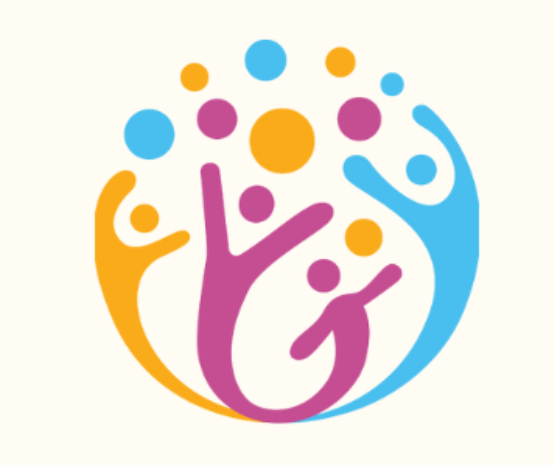
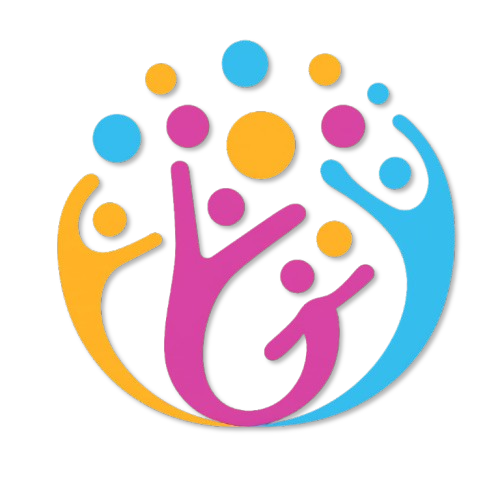
Initial commit: Added React registration form

Changed region(s): [[0.09, 0.0602, 0.93, 0.9333]]

diff --git a/src/App.js b/src/App.js
@@ -1,6 +1,6 @@
 import React, { useState } from 'react';
+import axios from 'axios';
 import { FaUsers, FaHandshake, FaRocket } from 'react-icons/fa';
-import './App.css';
 
 const capitalize = (str) => {
   if (!str) return '';
@@ -9,23 +9,25 @@ const capitalize = (str) => {
 
 const App = () => {
   const [formData, setFormData] = useState({
+    rollNo: '',
     firstName: '',
     middleName: '',
     lastName: '',
     email: '',
+    prn: '',
+    dob: '',
+    mobileNo: '',
     department: '',
     division: '',
-    rollNo: '',
-    prnNo: '',
-    dob: '',
     gender: '',
     address: '',
-    mobileNo: '',
   });
 
+  const [photo, setPhoto] = useState(null);
+  const [screenshot, setScreenshot] = useState(null);
+
   const handleChange = (event) => {
-    const { name, value, type, checked } = event.target;
-    
+    const { name, value } = event.target;
     if (['firstName', 'middleName', 'lastName'].includes(name)) {
       setFormData((prev) => ({
         ...prev,
@@ -34,27 +36,38 @@ const App = () => {
     } else {
       setFormData((prev) => ({
         ...prev,
-        [name]: type === 'checkbox' ? checked : value,
+        [name]: value,
       }));
     }
   };
 
-  const handleSubmit = (event) => {
+  const handleFileChange = (event) => {
+    const { name, files } = event.target;
+    if (name === 'photo') setPhoto(files[0]);
+    if (name === 'screenshot') setScreenshot(files[0]);
+  };
+
+  const handleSubmit = async (event) => {
     event.preventDefault();
-    console.log(formData);
-  };
 
-  const handlePhotoUpload = (event) => {
-    console.log('Photo file:', event.target.files[0]);
-  };
+    const data = new FormData();
+    Object.entries(formData).forEach(([key, value]) => {
+      data.append(key, value);
+    });
+    data.append('photo', photo);
+    data.append('screenshot', screenshot);
 
-  const handleScreenshotUpload = (event) => {
-    console.log('Screenshot file:', event.target.files[0]);
+    try {
+      await axios.post('http://localhost:8080/student', data);
+      alert('Student registered successfully');
+    } catch (error) {
+      console.error('Error submitting form:', error);
+      alert('Submission failed. Check backend logs for more info.');
+    }
   };
 
   return (
     <div className="flex flex-col lg:flex-row min-h-screen bg-gradient-to-br from-[#0f2027] via-[#203a43] to-[#2c5364] text-white p-4">
-
       {/* Form Section */}
       <div className="lg:w-4/5 bg-white text-gray-800 flex items-center justify-center p-8 shadow-2xl order-2 lg:order-1 rounded-lg">
         <div className="w-full max-w-3xl">
@@ -63,7 +76,7 @@ const App = () => {
             <span className="text-red-600 font-semibold">*</span> All fields are mandatory
           </p>
 
-          <form onSubmit={handleSubmit} className="space-y-6">
+          <form onSubmit={handleSubmit} className="space-y-6" encType="multipart/form-data">
             {/* Name Row */}
             <div className="grid grid-cols-1 md:grid-cols-3 gap-6">
               {[
@@ -81,7 +94,7 @@ const App = () => {
                     type="text"
                     value={formData[field.key]}
                     onChange={handleChange}
-                    required
+                    required={field.key !== 'middleName' ? true : false}
                     className="w-full border border-gray-300 rounded-md px-4 py-2 shadow-sm focus:ring-2 focus:ring-blue-500 focus:border-blue-500 transition-all"
                   />
                 </div>
@@ -93,7 +106,7 @@ const App = () => {
               {[
                 { label: 'Email*', name: 'email', type: 'email' },
                 { label: 'Roll Number*', name: 'rollNo', type: 'text' },
-                { label: 'PRN Number*', name: 'prnNo', type: 'text' },
+                { label: 'PRN Number*', name: 'prn', type: 'text' },
                 { label: 'Date of Birth*', name: 'dob', type: 'date' },
                 { label: 'Mobile Number*', name: 'mobileNo', type: 'tel' },
               ].map((field) => (
@@ -150,7 +163,7 @@ const App = () => {
                 >
                   <option value="">Select Division</option>
                   {[...Array(13)].map((_, i) => (
-                    <option key={i} value={i + 1}>FY-{i + 1}</option>
+                    <option key={i} value={`FY-${i + 1}`}>{`FY-${i + 1}`}</option>
                   ))}
                 </select>
               </div>
@@ -201,7 +214,7 @@ const App = () => {
                   type="file"
                   name="photo"
                   accept="image/*"
-                  onChange={handlePhotoUpload}
+                  onChange={handleFileChange}
                   className="w-full text-sm text-gray-500 file:mr-4 file:py-2 file:px-4 file:rounded-md file:border-0 file:text-sm file:font-semibold file:bg-blue-50 file:text-blue-700 hover:file:bg-blue-100 transition-colors"
                   required
                 />
@@ -211,9 +224,9 @@ const App = () => {
                 <label className="block text-sm font-medium text-gray-700 mb-1">Upload Payment Screenshot*</label>
                 <input
                   type="file"
-                  name="paymentScreenshot"
+                  name="screenshot"
                   accept="image/*"
-                  onChange={handleScreenshotUpload}
+                  onChange={handleFileChange}
                   className="w-full text-sm text-gray-500 file:mr-4 file:py-2 file:px-4 file:rounded-md file:border-0 file:text-sm file:font-semibold file:bg-red-50 file:text-red-700 hover:file:bg-red-100 transition-colors"
                   required
                 />
@@ -237,11 +250,15 @@ const App = () => {
         <div className="text-center z-10 relative">
           <h1 className="text-4xl md:text-5xl font-extrabold mb-4 drop-shadow-lg">
             Welcome to <br />
-            <span className="text-yellow-200">EthiCraft Club</span>
+            <span style={{ color: 'rgb(0, 158, 234)' }}>Ethi</span>
+            <span style={{ color: 'rgb(194, 18, 190)' }}>Craft</span>
+            <span style={{ color: 'rgb(228, 236, 220)' }}>Club</span>
+
+            
           </h1>
           <p className="text-lg font-semibold mb-6 drop-shadow-md">
-            Empower your future with a <span className="underline decoration-yellow-300">simple</span> and{' '}
-            <span className="underline decoration-yellow-300">secure</span> registration.
+            Guided by <span className="underline decoration-yellow-300">values</span> , Driven by{' '}
+            <span className="underline decoration-yellow-300">purpose</span>.
           </p>
 
           <div className="mb-6 flex justify-center">
@@ -249,7 +266,7 @@ const App = () => {
               <img
                 alt="EthiCraft Logo"
                 className="rounded-full w-40 h-40 object-contain"
-                src="/EthiCraft.jpg"
+                src="/EthiCraft.png"
               />
             </div>
           </div>

diff --git a/src/service/api.js b/src/service/api.js
@@ -1,0 +1,37 @@
+import axios from 'axios';
+
+const API_BASE = "http://localhost:8080"; // Spring Boot server
+
+const api = axios.create({
+  baseURL: API_BASE
+});
+
+// Get all students
+export const getStudents = async () => {
+  const response = await api.get("/students");
+  return Array.isArray(response.data) ? response.data : []; // Always return an array
+};
+
+// Get a single student
+export const getStudent = async (rollNo) => {
+  const response = await api.get(`/student/${rollNo}`);
+  return response.data;
+};
+
+// Add a new student
+export const addStudent = async (student) => {
+  const response = await api.post("/student", student);
+  return response.data;
+};
+
+// Update student
+export const updateStudent = async (student) => {
+  const response = await api.put("/student", student);
+  return response.data;
+};
+
+// Delete student
+export const deleteStudent = async (rollNo) => {
+  const response = await api.delete(`/student/${rollNo}`);
+  return response.data; // could be a message string
+};
